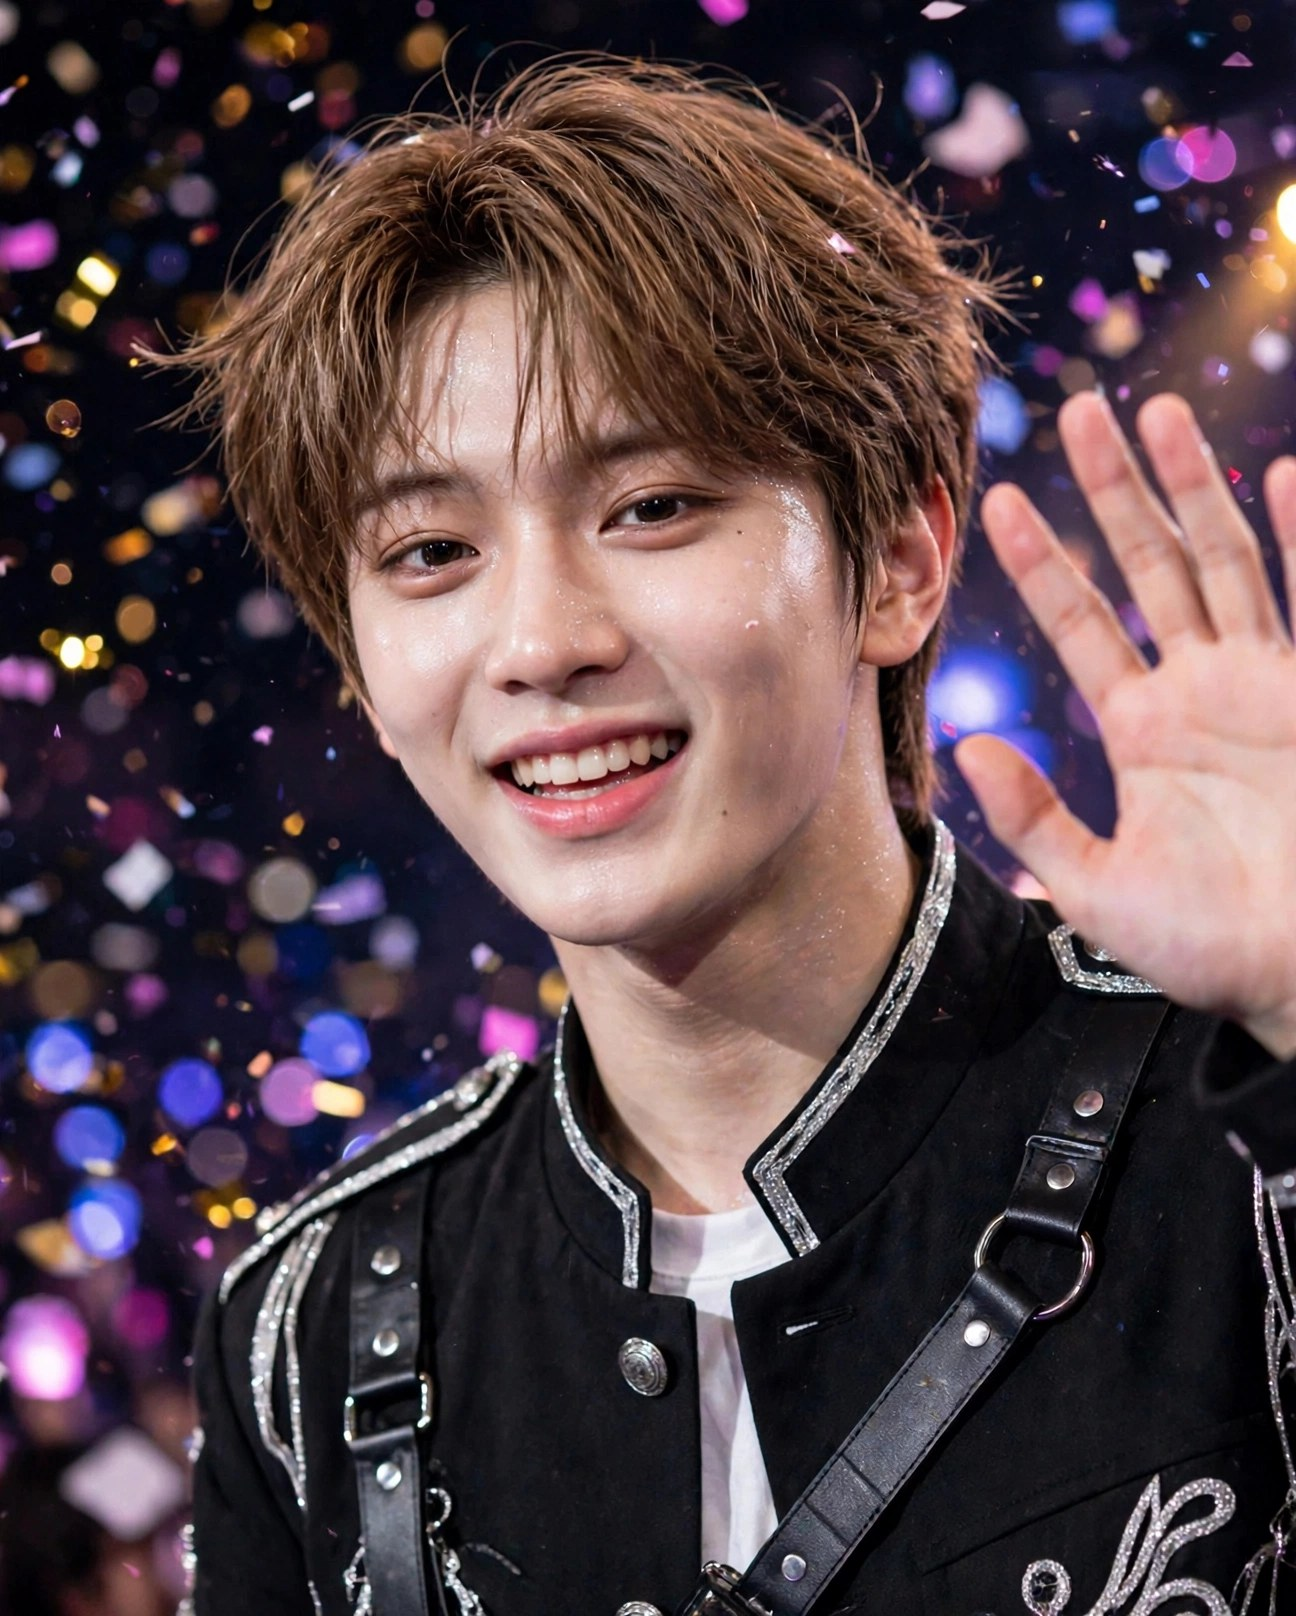
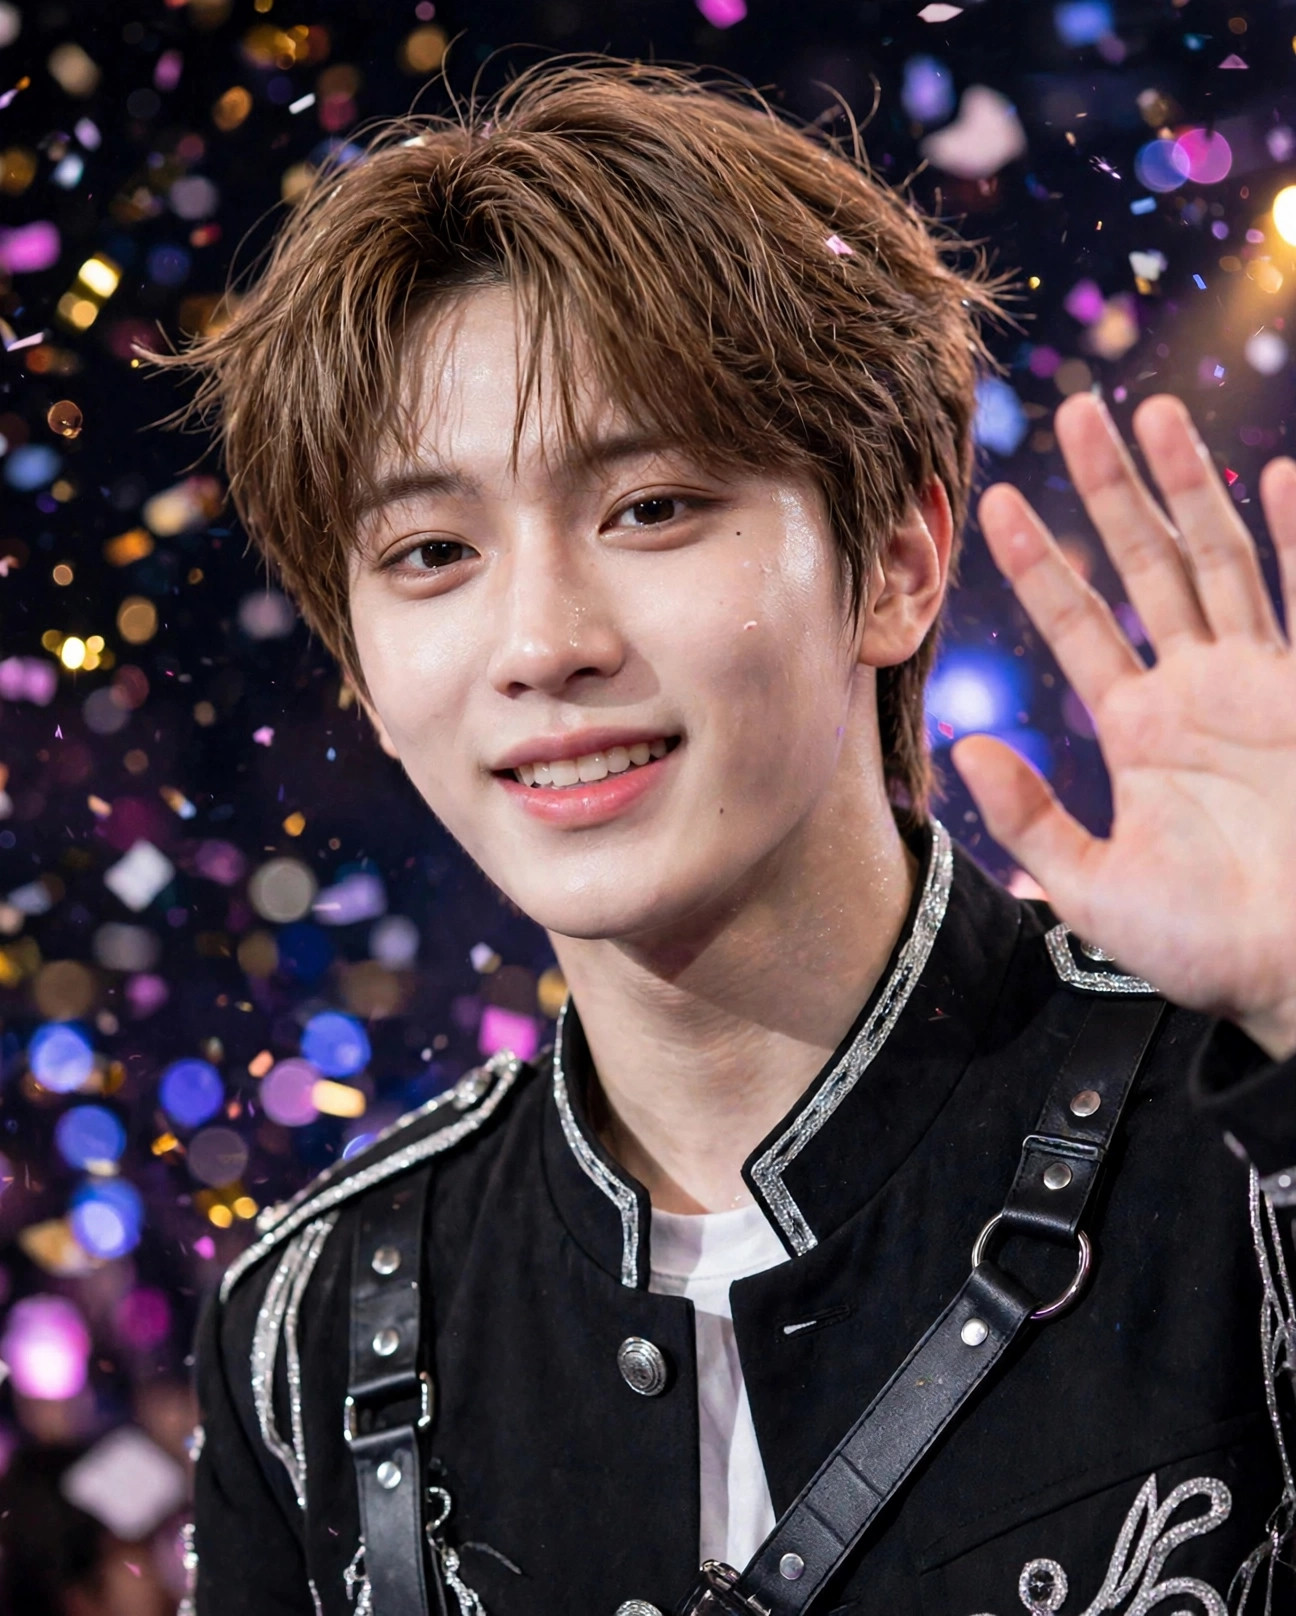
v59: 2021勉強カットと2023場面カット3点(日常/チッケム2種)を新フェイス(face2)で再生成

diff --git a/index.html b/index.html
@@ -518,7 +518,7 @@ body{font-family:-apple-system,"Hiragino Kaku Gothic ProN","Noto Sans JP",sans-s
 <script>
 "use strict";
 const $=s=>document.querySelector(s);
-const VER="v58";
+const VER="v59";
 /* ============ state ============ */
 const DEF={idx:0,started:false,consented:false,soundOn:true,
  g:{iwakan:0,bare:0,todoita:0,uta:8,dance:4,ishi:50},
